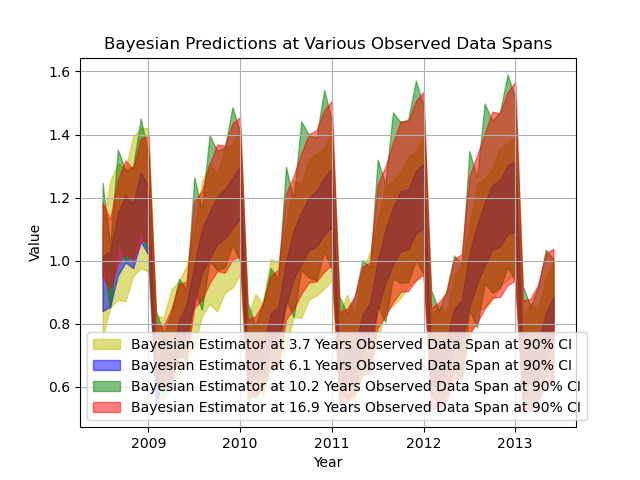
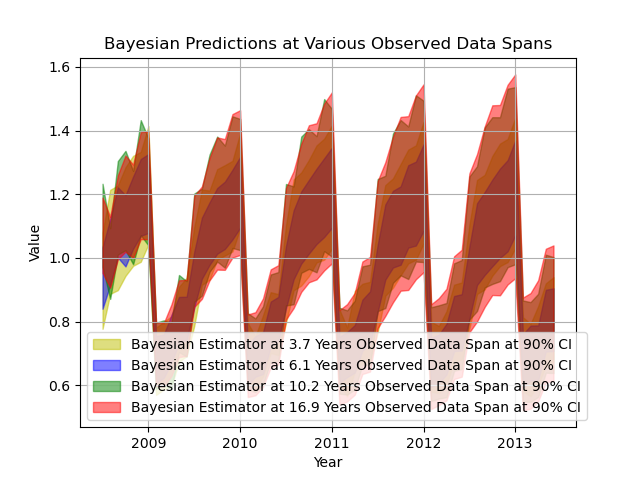
Run with model args 3,0,1,5,1,1,12 and add 900 iterations to model fit.

diff --git a/ARIMA/examples/bayesian.py b/ARIMA/examples/bayesian.py
@@ -33,7 +33,7 @@ def fit(model, observations,
         lr_sequence=[(0.005, 100),
                      (0.010, 100)] * 5 +
                     [(0.005, 100),
-                     (0.001, 100)],
+                     (0.001, 1000)],
         loss=pyro.infer.JitTrace_ELBO,
         loss_params=dict(num_particles=20, vectorize_particles=True, ignore_jit_warnings=True)):
     # Create posterior for Bayesian model
